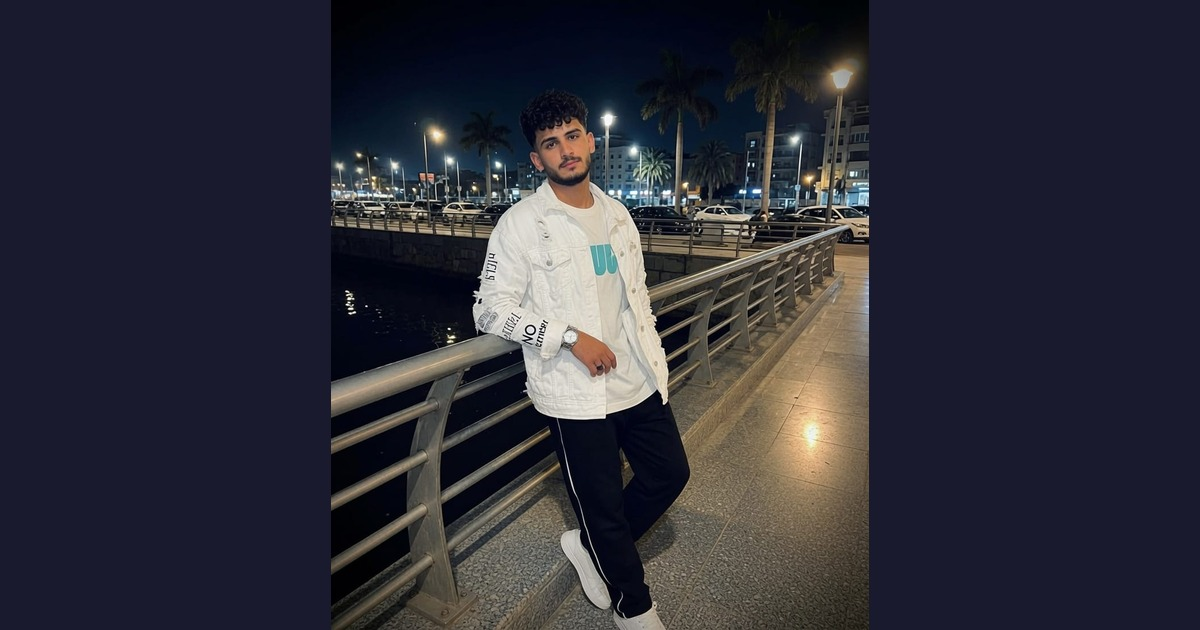
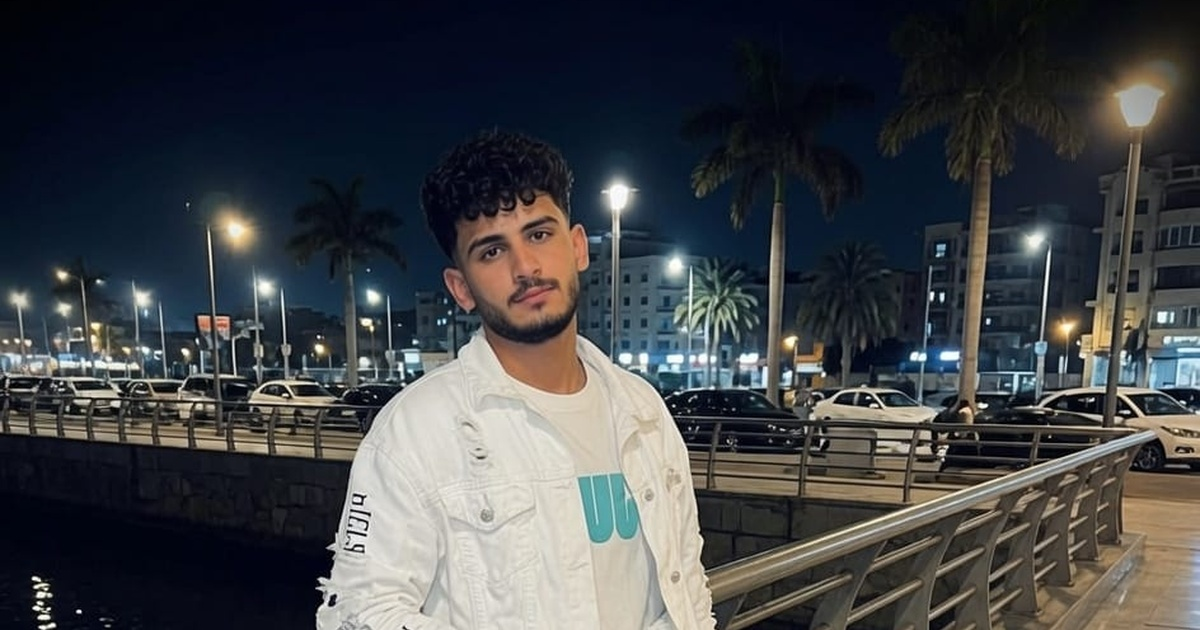
Fix OG image - face fully visible, fills 1200x630

diff --git a/index.html b/index.html
@@ -20,7 +20,7 @@
   <meta property="og:type" content="website" />
   <meta property="og:title" content="🎂 كل سنة وانت طيب يا Weaam!" />
   <meta property="og:description" content="هدية من Doha ❤ - كل سنه وانت طيب و بخير و تحقق كل اللي نفسك فيه 💗✨" />
-  <meta property="og:image" content="https://weaam-doha.vercel.app/images/og-preview.jpg?v=2" />
+  <meta property="og:image" content="https://weaam-doha.vercel.app/images/og-preview.jpg?v=3" />
   <meta property="og:image:width" content="1200" />
   <meta property="og:image:height" content="630" />
   <meta property="og:image:type" content="image/jpeg" />
@@ -31,7 +31,7 @@
   <meta name="twitter:card" content="summary_large_image" />
   <meta name="twitter:title" content="🎂 كل سنة وانت طيب يا Weaam!" />
   <meta name="twitter:description" content="هدية من Doha ❤" />
-  <meta name="twitter:image" content="https://weaam-doha.vercel.app/images/og-preview.jpg?v=2" />
+  <meta name="twitter:image" content="https://weaam-doha.vercel.app/images/og-preview.jpg?v=3" />
   <link rel="preconnect" href="https://fonts.googleapis.com" />
   <link rel="preconnect" href="https://fonts.gstatic.com" crossorigin />
   <link href="https://fonts.googleapis.com/css2?family=Tajawal:wght@300;400;700&family=Great+Vibes&display=swap" rel="stylesheet" />
